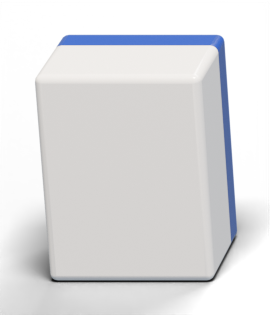
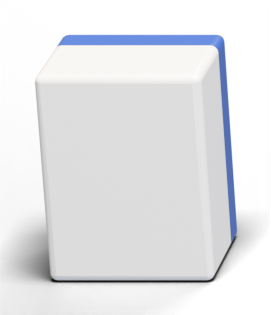
render: land the tuned lighting/carve preferences and regenerate
Apply the user's tuner values: key 0/77 at 200 kW, fill 45/11 at 23 kW, carve
depth 0.0143 (0.24 mm), transition 0.50 mm, spreads 0.92/0.92, paintEdge 0.18.
Regenerate the spike (body, back, decal, composite, zoom, sheet, manifest) and
update the README's rig, depth, transition, seam and paint-edge numbers.

Co-equal fill caveat recorded: at 23 kW the fill is roughly as strong as the key
on the flat face, so it is the first thing to lower if the paint sheen returns;
the 200 kW key puts the top edge at RGB(249) which is close to clipping.

diff --git a/tools/render/README.md b/tools/render/README.md
@@ -204,17 +204,17 @@ The field is shaped by a **cubic Bézier** from the lip `(0, 0)` to the floor
   0 gives a straight diagonal (no fillet); 1 gives the widest, softest ease. The
   tangent at each end is what spreads that fillet, so the lip and the
   wall-to-floor shoulder can be shaped separately.
-- `transitionUnits` is the **distance** from the lip to the flat floor (0.0089
-  units ≈ 0.25 mm by default). Raising it lets the
+- `transitionUnits` is the **distance** from the lip to the flat floor (0.0180
+  units ≈ 0.50 mm as tuned). Raising it lets the
   curvature run further into the bottom; it is capped by the distance the blur
   can resolve (~4 sigma), so widen `blurUnits` first if you need more.
 - `blurUnits` smooths the symbol edge and sets that resolvable distance
-  (0.0069 units ≈ 0.19 mm by default).
-- depth is `depthFractionOfThickness = 0.005` of the tile thickness — 0.00295
-  units, about 0.08 mm at jansou scale. That is a deliberately shallow engrave:
+  (0.0070 units ≈ 0.19 mm as tuned).
+- depth is `depthFractionOfThickness = 0.0143` of the tile thickness — 0.0084
+  units, about 0.24 mm at jansou scale. That is a deliberately shallow engrave:
   the carve reads through the bevel ring and wall shading, not a deep shadow.
 
-The paint boundary sits `paintEdge` into the transition (0.3 by default), so a
+The paint boundary sits `paintEdge` into the transition (0.18 as tuned), so a
 ring of bare melamine remains on the bevel. That ring catches the key and is what
 makes the carve read as a bevelled recess rather than a flat print. Because the
 gate reads the distance field rather than the hard symbol alpha, this control
@@ -228,8 +228,8 @@ upstream red; the two are equal at the committed defaults.
 A groove floor has the same normal as the face, so its diffuse response is
 identical and a wide stroke would still look flat. The decal material therefore
 adds **cavity occlusion** (Cycles AO, distance 0.2 units, strength 0.75), which
-darkens the inside of the engraving. At 0.08 mm depth the cavity is shallow, so
-the diffuse darkening is small (the face measures ≈ RGB(215, 214, 213); the
+darkens the inside of the engraving. At 0.24 mm depth the cavity is still shallow,
+so the diffuse darkening is small (the face measures ≈ RGB(221, 220, 220); the
 floor is within a few levels); the read comes from the bare bevel ring, the wall
 shading, and the gloss highlight on the bottom fillet. If the carve needs to
 read stronger without more depth, raise `occlusionStrength`, widen the bevel, or
@@ -277,8 +277,8 @@ stretched.
 
 The decal's face is the same flat melamine base colour as the body's face
 underlay (`#f5f0eb`). Measured at the seam, the body face is
-`rgb(215, 214, 213)` sRGB and the decal's flat face is `rgb(218, 216, 216)`,
-about 1.4% brighter. That is the canonical rig sitting at the hand-row centre
+`rgb(221, 220, 220)` sRGB and the decal's flat face is `rgb(224, 224, 224)`,
+about 1.3% brighter. That is the canonical rig sitting at the hand-row centre
 while `hand-0` sits 5.3 units to its left, not a base-colour mismatch. It is
 invisible at 2×; treat ~2% as the tolerance and re-check the seam zoom before
 adding any runtime blend. The decal edge needs **no runtime mask, feather, or
@@ -298,18 +298,20 @@ light's target (`azimuthDeg`, `elevationDeg`, `distance`; azimuth 0 is front,
 90 right, 180 behind, 270 left), which is what the tuner's direction sliders
 edit. `build_lights` turns those into positions; do not hand-place xyz.
 
-- **key**: azimuth 0, elevation 70, 56 units out, 110 kW. Centred over the hand
-  row, so the up-facing top edge takes ~95% of its irradiance; nothing is biased
-  left or right. It is the dominant light: on the top edge it is ~25× the fill,
-  and on the vertical face ~3×.
-- **fill**: azimuth 46, elevation 12, 34 units out, 7 kW. A soft, dim fill that
-  lifts the face; it is deliberately not allowed to become a second key.
+- **key**: azimuth 0, elevation 77, 56 units out, 200 kW. Centred over the hand
+  row, so the up-facing top edge takes ~97% of its irradiance; nothing is biased
+  left or right. It is the dominant light on the top edge.
+- **fill**: azimuth 45, elevation 11, 34 units out, 23 kW. Soft and off-axis; it
+  lifts the face. At this power it is roughly co-equal with the key on the flat
+  face (they are ~14 each in arbitrary irradiance units), so if the paint sheen
+  returns, reduce it first.
 - **rim**: azimuth 170, elevation 45, 40 units, 22 kW, behind.
 - **ambient** world strength 0.5, lifting the face without adding highlights.
 
-Measured on the spike: top edge RGB(239, 237, 234), face RGB(213, 211, 209),
-left bevel RGB(166, 167, 168) — the up-facing edge is the brightest surface and
-there is no left-edge highlight.
+Measured on the spike: top edge RGB(249, 247, 244), face RGB(221, 220, 220),
+left bevel RGB(167, 166, 168) — the up-facing edge is the brightest surface and
+there is no left-edge highlight. The top edge is close to clipping at 200 kW;
+if it looks blown out, lower the key before raising the fill.
 
 **Key/fill practice.** The key is the main light (typically 2–4× the fill): it
 sets the form and the primary highlight and is placed off-axis. The fill is

diff --git a/rendered-table-plan.md b/rendered-table-plan.md
@@ -415,14 +415,14 @@ for Tasks 2–3:
   ~330k-vertex face at `gridScale: 1.0`; expect ~80 s per decal render with AO
   and cut `gridScale`/AO samples for the 190-decal set.
 - **Lighting is top-heavy, key-dominant.** The rig is spherical
-  (azimuth/elevation/distance around each target): the key sits at 0° / 70° over
-  the hand row (110 kW), the fill at 46° / 12° (7 kW) and the rim behind at
-  170° / 45°; ambient 0.5. The key is the main light — ~25× the fill on the top
-  edge and ~3× on the face — so the up-facing edge is the brightest surface with
-  no left/right bias. A bright or frontal fill sits near the face's specular
-  mirror, owns the flat face's sheen and desaturates the glossy paint, so the
-  fill is kept dim and off-axis. The angles do the work; the rig stays distant
-  for decals.
+  (azimuth/elevation/distance around each target): the key sits at 0° / 77°
+  over the hand row, the fill off-axis at 45° / 11° and the rim behind at
+  170° / 45°; ambient 0.5. The key is the dominant light on the up-facing edge,
+  so the edge is the brightest surface with no left/right bias. A bright or
+  frontal fill sits near the face's specular mirror, owns the flat face's sheen
+  and desaturates the glossy paint, so the fill stays off-axis. Exact powers are
+  tuned in `tools/render/scene-spec.json`; the angles do the work and the rig
+  stays distant for decals.
 
 ## 13. Task chain
 
